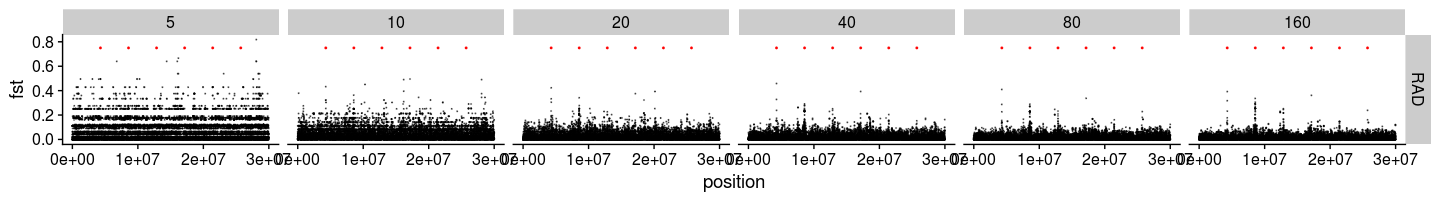
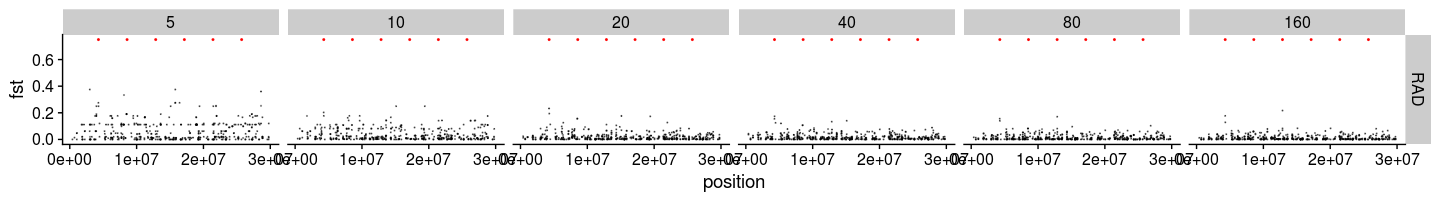
updated RADseq analysis to have only 250 RAD tags per chromosome

diff --git a/markdowns/data_analysis_two_pop_fixed_m2_pos.md b/markdowns/data_analysis_two_pop_fixed_m2_pos.md
@@ -182,7 +182,7 @@ get_sample_allele_count_per_pop <- function(x){
 }
 allele_count_to_fst <- function(x){
   set.seed(1)
-  rad_intervals <- sample(1:(30000000-150), 10000) %>%
+  rad_intervals <- sample(1:(30000000-150), 250) %>%
     tibble(start=., stop=.+150) %>%
     arrange(by=start)
   i <- 1
